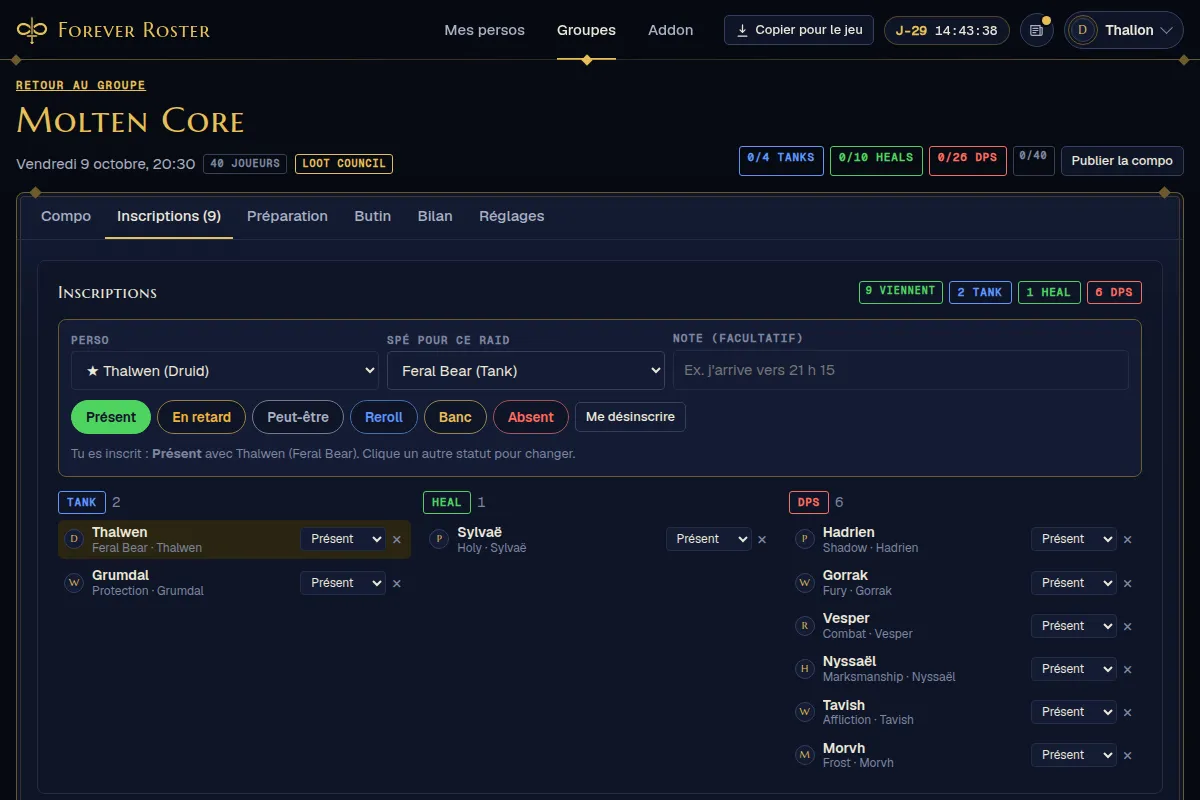
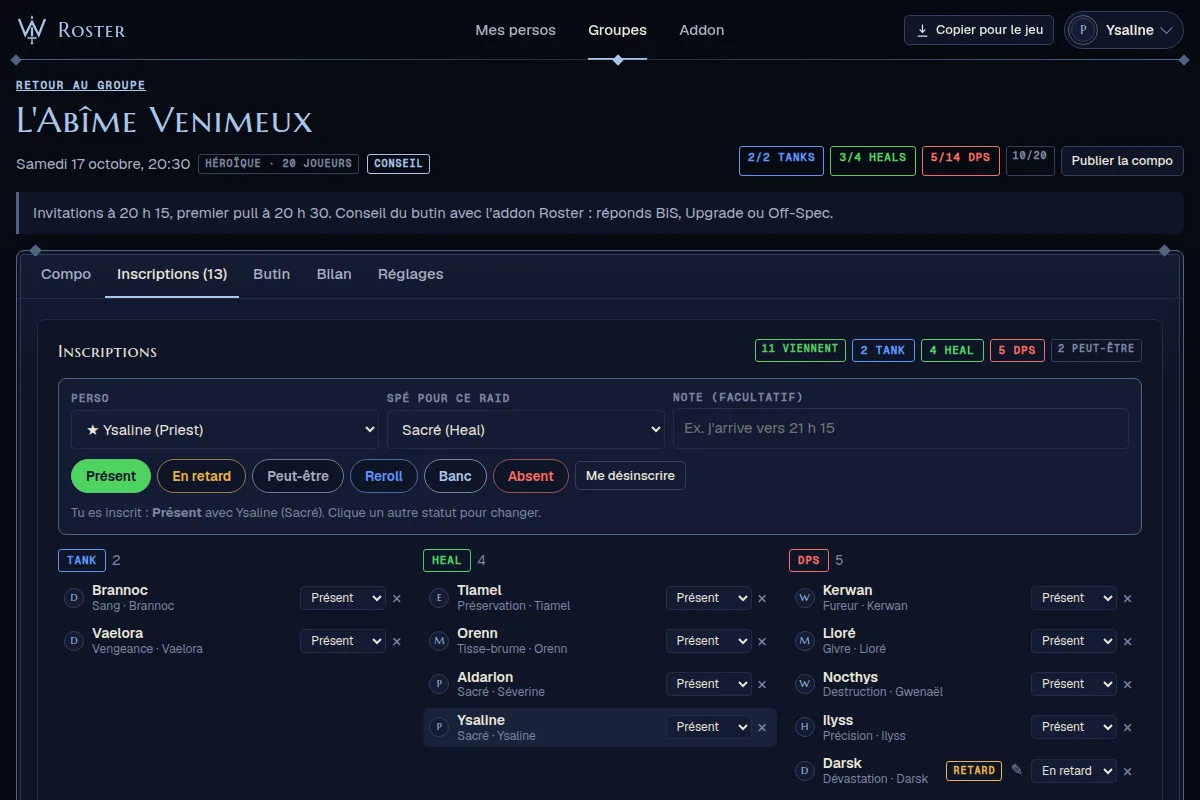
Captures de Roster (WoW Retail) : docs/screenshots/roster et image héros de l'accueil public
e2e/captures-roster.spec.ts (CAPTURES=1) crée sur l'adresse Roster un compte, une guilde et 15 persos fictifs
(DK, DH, Évocateur, Moine… avec royaume et niveau d'objet), un raid Héroïque de Midnight avec inscriptions et
compo partielle, puis capture Inscriptions, Compo, Personnages du groupe et Butin (conseil), et produit
landing/img/retail.webp (1200×800) : fini l'aperçu de Forever Roster sur l'accueil de Roster.

Claude-Session: https://claude.ai/code/session_01Bqq2nF6L1A4M8CKsbknfM3

diff --git a/e2e/captures-roster.spec.ts b/e2e/captures-roster.spec.ts
@@ -1,0 +1,158 @@
+import { expect, test } from "@playwright/test";
+import { readFileSync, statSync } from "node:fs";
+import path from "node:path";
+import pg from "pg";
+
+/**
+ * Captures d'écran de Roster (WoW Retail) : docs/screenshots/roster et l'image héros de l'accueil public
+ * (apps/web/public/landing/img/retail.webp), avec des données fictives (aucun vrai pseudo ni adresse).
+ * Lancement : CAPTURES=1 npx playwright test e2e/captures-roster.spec.ts (base e2e vide, site construit).
+ */
+test.skip(!process.env.CAPTURES, "captures seulement sur demande (CAPTURES=1)");
+
+/** Adresse Roster en test (e2e/start.mjs : RETAIL_ORIGIN), à côté de Forever Roster sur localhost. */
+const RETAIL = "http://127.0.0.1:4173";
+const OUT = path.resolve("docs/screenshots/roster");
+const HERO = path.resolve("apps/web/public/landing/img/retail.webp");
+const EMAIL = "ysaline@example.test", PASSWORD = "une phrase de passe pour la démo de Roster";
+const DB = process.env.DATABASE_URL_E2E ?? "postgres://forever:forever@localhost:5432/forever_e2e";
+
+type Status = "present" | "late" | "tentative" | "absent" | "";
+/** Joueurs et persos fictifs : [joueur, perso, royaume, classe, spé, off-spec, niveau d'objet, inscription, note]. */
+const ROSTER: [string, string, string, string, string, string, number, Status, string?][] = [
+  ["Brannoc", "Brannoc", "Norva", "Death Knight", "Blood", "Unholy", 718, "present"],
+  ["Vaelora", "Vaelora", "Norva", "Demon Hunter", "Vengeance", "Havoc", 716, "present"],
+  ["Tiamel", "Tiamel", "Sombreval", "Evoker", "Preservation", "Devastation", 711, "present"],
+  ["Orenn", "Orenn", "Brumeval", "Monk", "Mistweaver", "Windwalker", 709, "present"],
+  ["Séverine", "Aldarion", "Brumeval", "Paladin", "Holy", "Retribution", 713, "present"],
+  ["Kerwan", "Kerwan", "Brumeval", "Warrior", "Fury", "Protection", 715, "present"],
+  ["Lioré", "Lioré", "Sombreval", "Mage", "Frost", "Arcane", 717, "present"],
+  ["Gwenaël", "Nocthys", "Brumeval", "Warlock", "Destruction", "Affliction", 712, "present"],
+  ["Ilyss", "Ilyss", "Brumeval", "Hunter", "Marksmanship", "Beast Mastery", 710, "present"],
+  ["Rhoswen", "Rhoswen", "Sombreval", "Rogue", "Assassination", "Outlaw", 714, "tentative", "garde d'enfants à confirmer"],
+  ["Darsk", "Darsk", "Norva", "Demon Hunter", "Havoc", "", 706, "late", "j'arrive vers 20 h 45"],
+  ["Mirabel", "Mirabel", "Sombreval", "Evoker", "Augmentation", "Devastation", 705, "tentative"],
+  ["Elowen", "Elowen", "Brumeval", "Druid", "Balance", "Restoration", 711, "absent", "déplacement pro"],
+  ["Thorvald", "Thorvald", "Brumeval", "Shaman", "Elemental", "Restoration", 708, ""],
+];
+const OFFICERS = ["Brannoc", "Séverine"];
+
+function lastVerifyToken() {
+  const lines = readFileSync(path.resolve("test-results/api.log"), "utf8").split("\n").filter(l => l.includes(EMAIL) && l.includes("verify-email"));
+  return lines.at(-1)?.match(/verify-email#([A-Za-z0-9_-]{20,})/)?.[1] ?? "";
+}
+
+test("captures d'écran de Roster (WoW Retail)", async ({ page }) => {
+  test.setTimeout(120_000);
+  // Icônes (Blizzard, Pahpool) : jamais dans le dépôt, donc absentes des captures (repli du site)
+  await page.context().route("**/icons/**", r => r.fulfill({ status: 404, body: "" }));
+  await page.emulateMedia({ colorScheme: "dark" });
+  await page.setViewportSize({ width: 1360, height: 900 });
+
+  // Compte de démonstration, créé sur l'adresse Roster
+  await page.goto(`${RETAIL}/register`);
+  await page.fill("#dn", "Ysaline");
+  await page.fill("#em", EMAIL);
+  await page.fill("#pw", PASSWORD);
+  await page.fill("#pw2", PASSWORD);
+  await page.getByRole("button", { name: /créer/i }).click();
+  await expect.poll(lastVerifyToken).not.toBe("");
+  await page.goto(`${RETAIL}/verify-email#${lastVerifyToken()}`);
+  await expect(page.getByText("Adresse confirmée")).toBeVisible();
+  await page.goto(`${RETAIL}/login`);
+  await page.fill("#email", EMAIL);
+  await page.fill("#password", PASSWORD);
+  await page.getByRole("button", { name: /se connecter/i }).click();
+  await expect(page.getByRole("heading", { name: "Mes personnages" })).toBeVisible();
+
+  // Mon perso, créé à la main avec le formulaire de Roster (royaume obligatoire)
+  await page.fill("#rcn-name", "Ysaline");
+  await page.fill("#rcn-realm", "Brumeval");
+  await page.selectOption("#rcn-cls", "Priest");
+  await page.selectOption("#rcn-spec", "Holy");
+  await page.getByRole("button", { name: "Créer le perso" }).click();
+  await expect(page.getByRole("region", { name: "Fiche de Ysaline" })).toContainText("Prêtre");
+
+  // La guilde, créée depuis la page Groupes (groupe de Roster)
+  await page.goto(`${RETAIL}/groups`);
+  await page.fill("#g-name", "Les Veilleurs d'Azeroth");
+  await page.getByRole("button", { name: "Créer" }).click();
+  await expect(page.getByRole("tab", { name: "Personnages" })).toBeVisible();
+  const group = page.url().match(/\/groups\/([0-9a-f-]{36})/)![1]!;
+
+  // Le reste des données fictives, inséré directement en base (comme pour les captures de Forever Roster)
+  const db = new pg.Client({ connectionString: DB });
+  await db.connect();
+  const me = (await db.query("SELECT id FROM users WHERE email = $1", [EMAIL])).rows[0].id as string;
+  const mine = (await db.query("UPDATE characters SET spec2 = 'Shadow', ilvl = 714 WHERE user_id = $1 AND name = 'Ysaline' RETURNING id", [me])).rows[0].id as string;
+  await db.query("INSERT INTO group_characters (group_id, character_id, user_id, is_main) VALUES ($1, $2, $3, true)", [group, mine, me]);
+  type C = { id: string; user: string; name: string; cls: string; spec: string; status: Status; note: string };
+  const chars: C[] = [{ id: mine, user: me, name: "Ysaline", cls: "Priest", spec: "Holy", status: "", note: "" }];
+  for (const [player, name, realm, cls, spec, off, ilvl, status, note] of ROSTER) {
+    const u = (await db.query("INSERT INTO users (email, email_verified_at, password_hash, display_name) VALUES ($1, now(), 'demo', $2) RETURNING id",
+      [`${player.toLowerCase().normalize("NFD").replace(/[̀-ͯ]/g, "")}@example.test`, player])).rows[0].id as string;
+    await db.query("INSERT INTO group_members (group_id, user_id, role) VALUES ($1, $2, $3)", [group, u, OFFICERS.includes(player) ? "officer" : "member"]);
+    const c = (await db.query("INSERT INTO characters (user_id, game, name, realm, cls, spec1, spec2, level, ilvl) VALUES ($1, 'retail', $2, $3, $4, $5, $6, 90, $7) RETURNING id",
+      [u, name, realm, cls, spec, off, ilvl])).rows[0].id as string;
+    await db.query("INSERT INTO group_characters (group_id, character_id, user_id, is_main) VALUES ($1, $2, $3, true)", [group, c, u]);
+    chars.push({ id: c, user: u, name, cls, spec, status, note: note ?? "" });
+  }
+  // Raid Héroïque de Midnight à 20, conseil du butin, compo commencée (2 tanks, 3 heals, 5 DPS)
+  const when = new Date(Date.now() + 3 * 86400e3); when.setHours(20, 30, 0, 0);
+  const idOf = (name: string) => chars.find(c => c.name === name)!.id;
+  const layout = [["Brannoc", "Ysaline", "Kerwan", "Lioré", "Darsk"], ["Vaelora", "Tiamel", "Orenn", "Nocthys", "Ilyss"]];
+  const slots = layout.flatMap((g, gi) => g.map((n, pi) => ({ group: gi + 1, pos: pi + 1, characterId: idOf(n) })));
+  const raid = (await db.query(`INSERT INTO raids (group_id, name, scheduled_at, slots, description, created_by, size, difficulty, loot_mode)
+     VALUES ($1, 'L''Abîme Venimeux', $2, $3, $4, $5, 20, 'heroic', 'council') RETURNING id`,
+    [group, when, JSON.stringify(slots), "Invitations à 20 h 15, premier pull à 20 h 30. Conseil du butin avec l'addon Roster : réponds BiS, Upgrade ou Off-Spec.", me])).rows[0].id as string;
+  for (const c of chars) {
+    if (!c.status) continue;
+    await db.query("INSERT INTO raid_signups (raid_id, user_id, display_name, character_id, cls, spec, status, note) VALUES ($1, $2, $3, $4, $5, $6, $7, $8)",
+      [raid, c.user, ROSTER.find(r => r[1] === c.name)![0], c.id, c.cls, c.status === "absent" ? "" : c.spec, c.status, c.note]);
+  }
+  await db.end();
+
+  // Mon inscription, depuis la page du raid
+  const raidUrl = `${RETAIL}/groups/${group}/raids/${raid}`;
+  await page.goto(`${raidUrl}/inscriptions`);
+  await expect(page.getByRole("heading", { name: "L'Abîme Venimeux" })).toBeVisible();
+  await page.selectOption("#su-spec", "Holy");
+  await page.getByRole("group", { name: "Mon statut" }).getByRole("button", { name: "Présent" }).click();
+  await expect(page.getByText("Tu es inscrit : Présent avec Ysaline (Sacré)")).toBeVisible();
+  await expect(page.locator(".su-roles")).toContainText("Darsk");
+
+  // Image héros de l'accueil public (1200 × 800) : les inscriptions rangées par rôle
+  await page.setViewportSize({ width: 1200, height: 800 });
+  await page.mouse.move(0, 0);
+  const { default: sharp } = await import("sharp");
+  await sharp(await page.screenshot()).webp({ quality: 82 }).toFile(HERO);
+  const meta = await sharp(HERO).metadata();
+  expect([meta.width, meta.height]).toEqual([1200, 800]);
+  expect(statSync(HERO).size).toBeLessThan(120_000);
+
+  // 1. Inscriptions par rôle (avec les « peut-être » et les absents sous les colonnes)
+  await page.setViewportSize({ width: 1360, height: 960 });
+  await page.screenshot({ path: `${OUT}/01-inscriptions.png` });
+
+  // 2. Compo : besoins par rôle, groupes, banc et couverture des buffs de Midnight
+  await page.goto(raidUrl);
+  await expect(page.getByRole("tab", { name: "Compo" })).toHaveAttribute("aria-selected", "true");
+  await expect(page.locator(".rgroup")).toHaveCount(4);
+  // Carte d'un joueur au survol (à droite de la place, sur des places libres du groupe 3)
+  await page.getByRole("button", { name: /Groupe 2, place 4 : Nocthys/ }).hover();
+  await expect(page.locator(".itip")).toBeVisible();
+  await page.screenshot({ path: `${OUT}/02-compo.png` });
+  await page.mouse.move(0, 0);
+
+  // 3. Persos du groupe : classe, royaume, niveau d'objet, spés et joueur
+  await page.setViewportSize({ width: 1360, height: 900 });
+  await page.goto(`${RETAIL}/groups/${group}/persos`);
+  await expect(page.locator(".glist .grow")).toHaveCount(15);
+  await page.screenshot({ path: `${OUT}/03-persos.png`, fullPage: true });
+
+  // 4. Butin : conseil (distribution par l'addon Roster) et choix du conseil (page courte : fenêtre moins haute)
+  await page.setViewportSize({ width: 1360, height: 740 });
+  await page.goto(`${raidUrl}/butin`);
+  await expect(page.getByRole("region", { name: "Conseil du butin" })).toContainText("Par défaut : les officiers du groupe.");
+  await page.screenshot({ path: `${OUT}/04-butin.png` });
+});

diff --git a/apps/web/public/landing/retail.html b/apps/web/public/landing/retail.html
@@ -14,7 +14,7 @@
 <meta property="og:image" content="https://roster.sleyvazh.fr/landing/img/retail.webp">
 <meta property="og:image:width" content="1200">
 <meta property="og:image:height" content="800">
-<meta property="og:image:alt" content="Inscriptions à un raid, rangées par rôle (données fictives)">
+<meta property="og:image:alt" content="Page d&#x27;un raid Héroïque sur Roster : les inscriptions rangées par rôle, tanks, heals et DPS (données fictives)">
 <meta property="og:locale" content="fr_FR">
 <meta name="twitter:card" content="summary_large_image">
 <link rel="canonical" href="https://roster.sleyvazh.fr/">
@@ -38,7 +38,7 @@
       <p>Inscriptions, compo et conseil du butin pour WoW Retail, avec un addon en jeu et un bot Discord. Gratuit.</p>
       <div class="cta"><a class="btn primary" href="/register">Créer un compte</a><a class="btn" href="/login">Se connecter</a></div>
     </div>
-    <figure class="shot"><img src="/landing/img/retail.webp" width="1200" height="800" alt="Inscriptions à un raid, rangées par rôle (données fictives)" loading="eager"><figcaption>Les inscriptions d&#x27;un raid (données fictives, aperçu de Forever Roster).</figcaption></figure>
+    <figure class="shot"><img src="/landing/img/retail.webp" width="1200" height="800" alt="Page d&#x27;un raid Héroïque sur Roster : les inscriptions rangées par rôle, tanks, heals et DPS (données fictives)" loading="eager"><figcaption>Les inscriptions d&#x27;un raid Héroïque, rangées par rôle (données fictives).</figcaption></figure>
   </div>
   <section id="fonctions" aria-labelledby="f-t">
     <h2 id="f-t">Ce que fait Roster</h2>

diff --git a/playwright.config.ts b/playwright.config.ts
@@ -6,8 +6,8 @@ import { defineConfig, devices } from "@playwright/test";
  */
 export default defineConfig({
   testDir: "e2e",
-  // Captures de la documentation : seulement avec CAPTURES=1 (voir e2e/captures.spec.ts)
-  testIgnore: process.env.CAPTURES ? [] : ["**/captures.spec.ts"],
+  // Captures de la documentation : seulement avec CAPTURES=1 (voir e2e/captures.spec.ts et e2e/captures-roster.spec.ts)
+  testIgnore: process.env.CAPTURES ? [] : ["**/captures*.spec.ts"],
   timeout: 60_000,
   retries: process.env.CI ? 1 : 0,
   workers: 1,

diff --git a/README.md b/README.md
@@ -85,7 +85,7 @@ DATABASE_URL_E2E=postgres://forever:forever@localhost:5432/forever_e2e npm run t
 
 Un vrai navigateur rejoue le parcours d'un joueur : inscription, fiche, portrait, patrons, équipement, groupe. Le site testé est la version construite pour la production, servie avec les mêmes en-têtes que Caddy (lus dans `infra/Caddyfile`). Toute erreur JavaScript ou violation de la CSP fait échouer le test. C'est ce filet qui manquait quand un envoi d'image fonctionnait en développement mais pas en production.
 
-Les captures de `docs/screenshots` se régénèrent de la même façon, avec des joueurs et des persos fictifs, sans les icônes du jeu (elles ne sont jamais dans le dépôt) : `CAPTURES=1 npx playwright test e2e/captures.spec.ts` sur une base e2e vide.
+Les captures de `docs/screenshots` se régénèrent de la même façon, avec des joueurs et des persos fictifs, sans les icônes du jeu (elles ne sont jamais dans le dépôt) : `CAPTURES=1 npx playwright test e2e/captures.spec.ts` sur une base e2e vide. Celles de Roster (`docs/screenshots/roster`) et l'image héros de son accueil public (`apps/web/public/landing/img/retail.webp`) viennent de `e2e/captures-roster.spec.ts`, de la même façon.
 
 ## Déploiement
 
